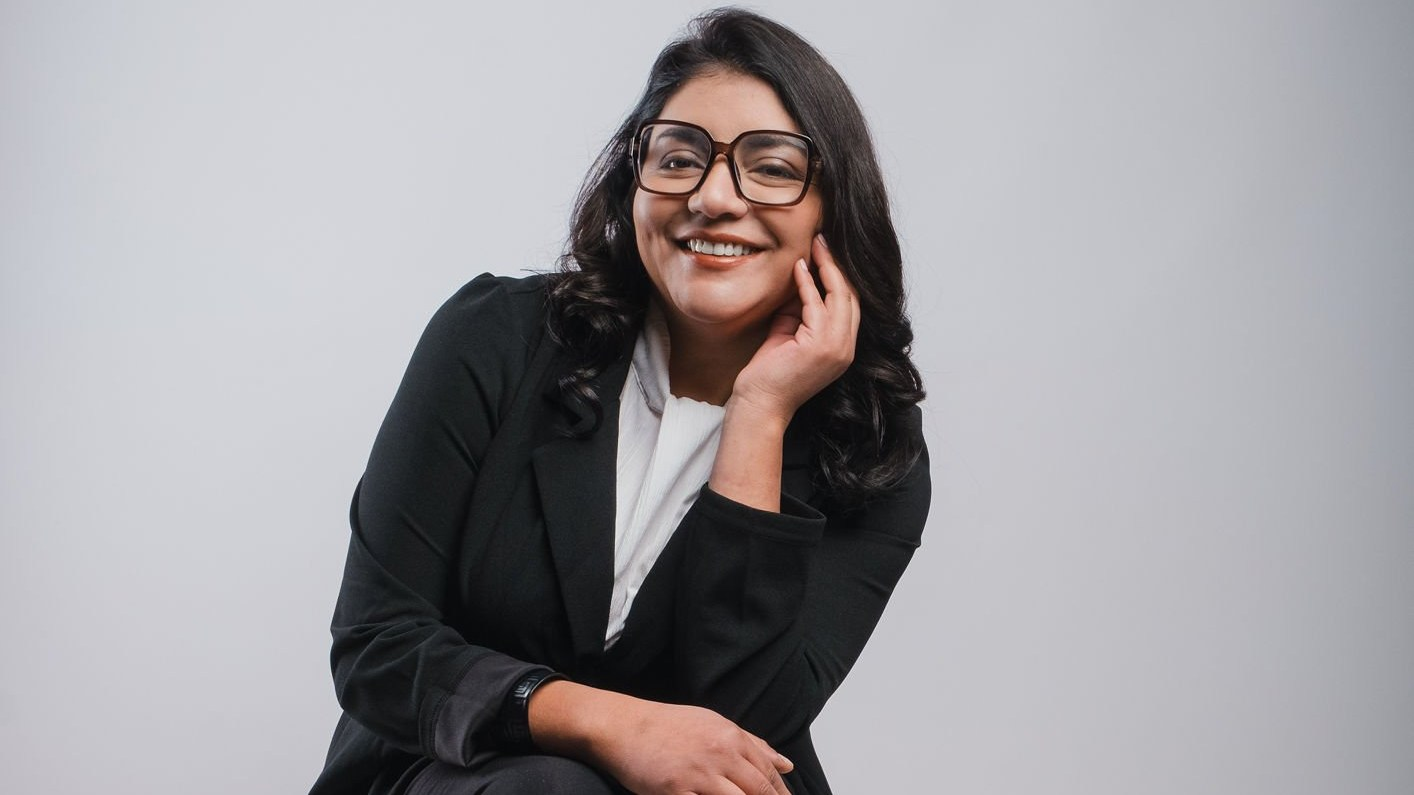
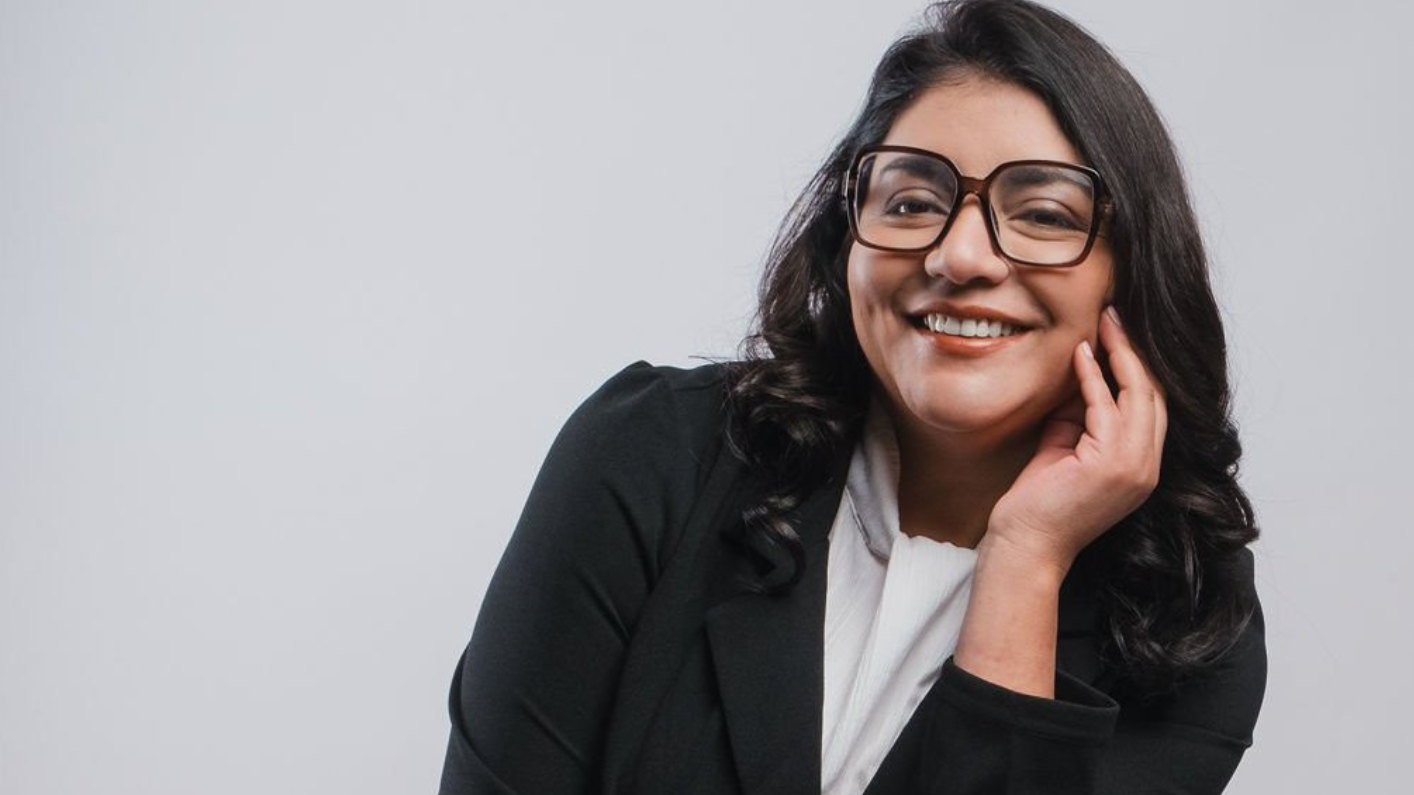
fix(hero): keep approved first slide only

diff --git a/index.html b/index.html
@@ -195,29 +195,6 @@
                     </div>
                 </div>
 
-                <div class="hero__slide" id="hero-slide-1" role="tabpanel" aria-labelledby="hero-tab-1" aria-hidden="true">
-                    <div class="hero__left">
-                        <div class="hero__content">
-                            <span class="hero__label">Elizabeth Contreras</span>
-                            <h1>Arquitectura con criterio técnico y sentido del lugar.</h1>
-                            <p class="hero__desc">Proyectos de arquitectura, remodelación e interiorismo con oficio técnico. Desde 2015 en Santiago.</p>
-
-                            <div class="hero__actions">
-                                <a class="cta-btn" href="#contact" data-open-contact>
-                                    <span class="cta-bracket-tl"></span>
-                                    <span class="cta-bracket-tr"></span>
-                                    <span class="cta-bracket-bl"></span>
-                                    <span class="cta-bracket-br"></span>
-                                    <span class="cta-btn-inner">AGENDAR REUNIÓN</span>
-                                </a>
-                                <p class="hero__cta">O LLÁMANOS <a href="tel:+56951278937" class="hero__phone">+56 9 5127 8937</a></p>
-                            </div>
-                        </div>
-                    </div>
-                    <div class="hero__right">
-                        <img src="Recursos/Miscelaneos/slider1.jpeg" alt="Arquitectura residencial y diseño interior — Contreras Martínez" loading="lazy">
-                    </div>
-                </div>
             </div>
 
             <div class="hero__slider" role="tablist" aria-label="Navegación del slider">
@@ -653,7 +630,7 @@
         </div>
     </div>
 
-    <script src="assets/js/script.js"></script>
+    <script src="assets/js/script.js?v=menu-2026-11-02-2"></script>
 
     <a class="whatsapp-fab" href="https://wa.me/56951278937" target="_blank" rel="noopener" aria-label="Escribir por WhatsApp">
         <span class="whatsapp-fab__label">WhatsApp</span>

diff --git a/pages/portfolio.html b/pages/portfolio.html
@@ -99,7 +99,7 @@
     </div>
 
     <div class="contact-modal-overlay" id="contactModal" aria-hidden="true" role="dialog" aria-modal="true" aria-label="Formulario de contacto"><div class="contact-modal-backdrop" data-close-contact></div><div class="contact-modal"><button class="contact-modal-close" type="button" aria-label="Cerrar formulario" data-close-contact>×</button><div class="contact-modal-content"><p class="eyebrow">Contacto</p><h2>Conversemos<br>sobre tu proyecto</h2><p class="contact-modal-desc">Completá el formulario y te respondemos a la brevedad.</p><form id="contactForm" action="form.php" method="POST"><input type="text" name="website" style="display:none" tabindex="-1" autocomplete="off"><div class="form-field"><label for="modalName">Nombre</label><input id="modalName" name="name" type="text" required placeholder="Tu nombre"></div><div class="form-field"><label for="modalEmail">Correo electrónico</label><input id="modalEmail" name="email" type="email" required placeholder="tu@email.cl"></div><div class="form-field"><label for="modalMessage">Mensaje</label><textarea id="modalMessage" name="message" rows="4" required placeholder="Contanos sobre tu proyecto..."></textarea></div><button class="contacto-submit" type="submit">Enviar mensaje <span>&rarr;</span></button><p class="form-feedback" aria-live="polite"></p></form></div></div></div>
-    <script src="../assets/js/script.js"></script>
+    <script src="../assets/js/script.js?v=menu-2026-11-02-2"></script>
 
     <a class="whatsapp-fab" href="https://wa.me/56951278937" target="_blank" rel="noopener" aria-label="Escribir por WhatsApp">
         <span class="whatsapp-fab__label">WhatsApp</span>

diff --git a/assets/js/script.js b/assets/js/script.js
@@ -434,6 +434,7 @@ document.addEventListener("DOMContentLoaded", () => {
         const track = slider.querySelector('.hero__track');
         const slides = slider.querySelectorAll('.hero__slide');
         const btns = slider.querySelectorAll('.hero__slider-btn');
+        const srStatus = slider.querySelector('.hero__sr-status');
         if (track && slides.length && btns.length) {
             let current = 0;
             let animating = true; /* Locked during page load */

diff --git a/pages/elizabeth.html b/pages/elizabeth.html
@@ -374,7 +374,7 @@
         </div>
     </div>
 
-    <script src="../assets/js/script.js"></script>
+    <script src="../assets/js/script.js?v=menu-2026-11-02-2"></script>
 
     <a class="whatsapp-fab" href="https://wa.me/56951278937" target="_blank" rel="noopener" aria-label="Escribir por WhatsApp">
         <span class="whatsapp-fab__label">WhatsApp</span>

diff --git a/pages/proyecto-carlos-hernandez.html b/pages/proyecto-carlos-hernandez.html
@@ -341,7 +341,7 @@
         </div>
     </div>
 
-    <script src="../assets/js/script.js"></script>
+    <script src="../assets/js/script.js?v=menu-2026-11-02-2"></script>
 
     <a class="whatsapp-fab" href="https://wa.me/56951278937" target="_blank" rel="noopener" aria-label="Escribir por WhatsApp">
         <span class="whatsapp-fab__label">WhatsApp</span>

diff --git a/pages/proyecto-casa-campo.html b/pages/proyecto-casa-campo.html
@@ -338,7 +338,7 @@
         </div>
     </div>
 
-    <script src="../assets/js/script.js"></script>
+    <script src="../assets/js/script.js?v=menu-2026-11-02-2"></script>
 
     <a class="whatsapp-fab" href="https://wa.me/56951278937" target="_blank" rel="noopener" aria-label="Escribir por WhatsApp">
         <span class="whatsapp-fab__label">WhatsApp</span>

diff --git a/pages/proyecto-diseno-inspeccion.html b/pages/proyecto-diseno-inspeccion.html
@@ -341,7 +341,7 @@
         </div>
     </div>
 
-    <script src="../assets/js/script.js"></script>
+    <script src="../assets/js/script.js?v=menu-2026-11-02-2"></script>
 
     <a class="whatsapp-fab" href="https://wa.me/56951278937" target="_blank" rel="noopener" aria-label="Escribir por WhatsApp">
         <span class="whatsapp-fab__label">WhatsApp</span>

diff --git a/pages/proyecto-estacion-central.html b/pages/proyecto-estacion-central.html
@@ -340,7 +340,7 @@
         </div>
     </div>
 
-    <script src="../assets/js/script.js"></script>
+    <script src="../assets/js/script.js?v=menu-2026-11-02-2"></script>
 
     <a class="whatsapp-fab" href="https://wa.me/56951278937" target="_blank" rel="noopener" aria-label="Escribir por WhatsApp">
         <span class="whatsapp-fab__label">WhatsApp</span>

diff --git a/pages/proyecto-ito-mapocho.html b/pages/proyecto-ito-mapocho.html
@@ -340,7 +340,7 @@
         </div>
     </div>
 
-    <script src="../assets/js/script.js"></script>
+    <script src="../assets/js/script.js?v=menu-2026-11-02-2"></script>
 
     <a class="whatsapp-fab" href="https://wa.me/56951278937" target="_blank" rel="noopener" aria-label="Escribir por WhatsApp">
         <span class="whatsapp-fab__label">WhatsApp</span>

diff --git a/pages/proyecto-la-florida.html b/pages/proyecto-la-florida.html
@@ -340,7 +340,7 @@
         </div>
     </div>
 
-    <script src="../assets/js/script.js"></script>
+    <script src="../assets/js/script.js?v=menu-2026-11-02-2"></script>
 
     <a class="whatsapp-fab" href="https://wa.me/56951278937" target="_blank" rel="noopener" aria-label="Escribir por WhatsApp">
         <span class="whatsapp-fab__label">WhatsApp</span>

diff --git a/pages/proyecto-ofwayne.html b/pages/proyecto-ofwayne.html
@@ -341,7 +341,7 @@
         </div>
     </div>
 
-    <script src="../assets/js/script.js"></script>
+    <script src="../assets/js/script.js?v=menu-2026-11-02-2"></script>
 
     <a class="whatsapp-fab" href="https://wa.me/56951278937" target="_blank" rel="noopener" aria-label="Escribir por WhatsApp">
         <span class="whatsapp-fab__label">WhatsApp</span>

diff --git a/pages/proyecto-residencia.html b/pages/proyecto-residencia.html
@@ -338,7 +338,7 @@
         </div>
     </div>
 
-    <script src="../assets/js/script.js"></script>
+    <script src="../assets/js/script.js?v=menu-2026-11-02-2"></script>
 
     <a class="whatsapp-fab" href="https://wa.me/56951278937" target="_blank" rel="noopener" aria-label="Escribir por WhatsApp">
         <span class="whatsapp-fab__label">WhatsApp</span>
